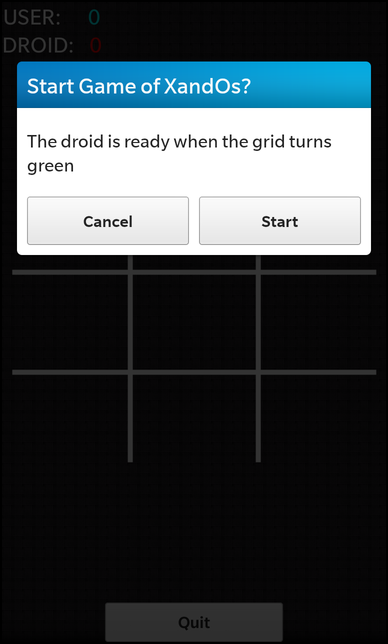
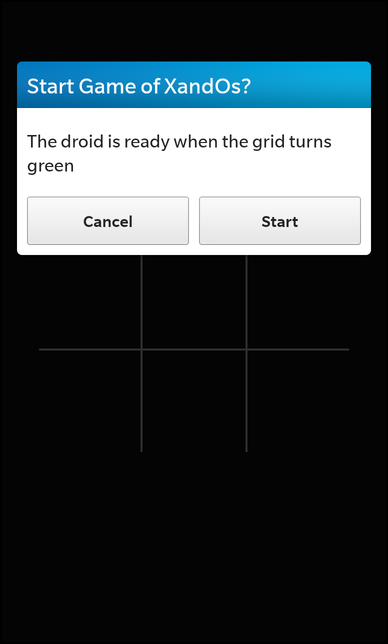
html refresh

diff --git a/xandosdroid-src-xandosdroid-cpp.html b/xandosdroid-src-xandosdroid-cpp.html
@@ -70,6 +70,8 @@
         Q_UNUSED(ok);
     }
     xandosdroid<span class="operator">::</span><span class="operator">~</span>xandosdroid() {
+        m_clientSocket<span class="operator">-</span><span class="operator">&gt;</span>close();
+        m_clientSocket<span class="operator">-</span><span class="operator">&gt;</span>deleteLater();
     }
     <span class="type">void</span> xandosdroid<span class="operator">::</span>onInvoked(<span class="keyword">const</span> bb<span class="operator">::</span>system<span class="operator">::</span>InvokeRequest<span class="operator">&amp;</span> request) {
         <span class="keyword">if</span> (request<span class="operator">.</span>action()<span class="operator">.</span>compare(<span class="string">&quot;bb.action.START&quot;</span>) <span class="operator">=</span><span class="operator">=</span> <span class="number">0</span>) {
@@ -148,6 +150,9 @@
         <a href="http://qt.nokia.com/doc/4.7/qtglobal.html#qWarning">qWarning</a>() <span class="operator">&lt;</span><span class="operator">&lt;</span> <span class="string">&quot;XandOsDroid: connecting to server socket&quot;</span>;
         <span class="keyword">if</span> (<span class="operator">!</span>m_clientSocket<span class="operator">-</span><span class="operator">&gt;</span>isOpen()) {
             m_clientSocket<span class="operator">-</span><span class="operator">&gt;</span>connectToHost(<span class="type"><a href="http://qt.nokia.com/doc/4.7/qhostaddress.html">QHostAddress</a></span><span class="operator">::</span>LocalHost<span class="operator">,</span> m_port);
+            <span class="type">bool</span> ok <span class="operator">=</span> connect(m_clientSocket<span class="operator">,</span> SIGNAL(disconnected())<span class="operator">,</span> <span class="keyword">this</span><span class="operator">,</span> SLOT(disconnected()));
+            Q_ASSERT(ok);
+            Q_UNUSED(ok);
         } <span class="keyword">else</span> {
             connected();
         }
@@ -159,6 +164,11 @@
         m_clientSocket<span class="operator">-</span><span class="operator">&gt;</span>flush();
         select(m_nextMove<span class="operator">,</span> <span class="operator">-</span><span class="number">1</span>);
         m_nextMove <span class="operator">=</span> <span class="operator">-</span><span class="number">1</span>;
+    }
+
+    <span class="type">void</span> xandosdroid<span class="operator">::</span>disconnected() {
+        m_clientSocket<span class="operator">-</span><span class="operator">&gt;</span>close();
+        resetGame();
     }
     <span class="type">int</span> xandosdroid<span class="operator">::</span>nextMove(<span class="type">int</span> player) {
         <span class="type"><a href="http://qt.nokia.com/doc/4.7/qlist.html">QList</a></span><span class="operator">&lt;</span><span class="type">int</span><span class="operator">&gt;</span> moves;
@@ -182,10 +192,14 @@
     }
     <span class="keyword">inline</span> <span class="type">void</span> xandosdroid<span class="operator">::</span>terminateDroid() {
         <a href="http://qt.nokia.com/doc/4.7/qtglobal.html#qDebug">qDebug</a>() <span class="operator">&lt;</span><span class="operator">&lt;</span> <span class="string">&quot;XandOsDroid: terminating droid&quot;</span>;
-        m_clientSocket<span class="operator">-</span><span class="operator">&gt;</span>close();
-        m_clientSocket<span class="operator">-</span><span class="operator">&gt;</span>deleteLater();
-        <span class="keyword">if</span> (<span class="operator">!</span>m_app<span class="operator">-</span><span class="operator">&gt;</span>requestExit()) {
-            <a href="http://qt.nokia.com/doc/4.7/qtglobal.html#qDebug">qDebug</a>() <span class="operator">&lt;</span><span class="operator">&lt;</span> <span class="string">&quot;XandOsDroid: error trying to terminate droid&quot;</span>;
+        resetGame();
+    }
+    <span class="type">void</span> xandosdroid<span class="operator">::</span>resetGame() {
+        <span class="keyword">for</span> (<span class="type">int</span> i <span class="operator">=</span> <span class="number">0</span>; i <span class="operator">&lt;</span> <span class="number">9</span>; i<span class="operator">+</span><span class="operator">+</span>) {
+            m_possibilities<span class="operator">[</span>i<span class="operator">]</span><span class="operator">[</span><span class="number">8</span><span class="operator">]</span> <span class="operator">=</span> <span class="number">0</span>;
+            <span class="keyword">if</span> (i <span class="operator">&lt;</span> <span class="number">8</span>) {
+                m_gameMatrix<span class="operator">[</span>i<span class="operator">]</span> <span class="operator">=</span> <span class="number">0</span>;
+            }
         }
     }</pre>
 </div>

diff --git a/xandos.html b/xandos.html
@@ -53,7 +53,7 @@
 <a name="description"></a>
 <h2>Description</h2>
 <p>The <a href="#xandos">XandOs</a> example demonstrates how to launch a headless service counterpart and communicate with it.</p>
-<p class="centerAlign"><img src="images/xandos-example.png" /></p><p class="centerAlign"><img src="images/xandos-example1.png" /></p><p class="centerAlign"><img src="images/xandos-example2.png" /></p><p class="centerAlign"><img src="images/xandos-example3.png" /></p><p class="centerAlign"><img src="images/xandos-example4.png" /></p><a name="overview"></a>
+<p class="centerAlign"><img src="images/xandos-example.png" /></p><p class="centerAlign"><img src="images/xandos-example1.png" /></p><p class="centerAlign"><img src="images/xandos-example2.png" /></p><p class="centerAlign"><img src="images/xandos-example3.png" /></p><a name="overview"></a>
 <h2>Overview</h2>
 <p>In this sample, we represent the game board using an image and sprites for the game pieces.</p>
 <a name="ui"></a>
@@ -310,19 +310,6 @@
         }
     }</pre>
 <p>The following <tt>Container</tt> 's with their associated images represent the grid cells, with the first <tt>Container</tt> being the first grid row, the second being the second grid row and so on. Each of the ImageView represent one cell in the grid, with the default image being a blank (meaning no selection has been made). When an onTouch event occurs, we verify first that the cell was not marked previously and we change it to the players sprite image.</p>
-<pre class="qml">    <span class="comment">// Button to exit the game at any time</span>
-    <span class="type">Button</span> {
-        <span class="name">bottomPadding</span>: <span class="number">200</span>
-        <span class="name">bottomMargin</span>: <span class="number">200</span>
-        <span class="name">horizontalAlignment</span>: <span class="name">HorizontalAlignment</span>.<span class="name">Center</span>
-        <span class="name">verticalAlignment</span>: <span class="name">VerticalAlignment</span>.<span class="name">Bottom</span>
-        <span class="name">text</span>: <span class="name">qsTr</span>(<span class="string">&quot;Quit&quot;</span>)
-        <span class="name">onClicked</span>: {
-            <span class="name">_xandos</span>.<span class="name">stopDroid</span>()
-            <span class="name">Application</span>.<span class="name">requestExit</span>()
-        }
-    }</pre>
-<p>The &quot;Quit&quot; button allows the user to terminate the droid and exit the application at any time.</p>
 <pre class="qml">    <span class="comment">// System dialog that questions user if to start the game at all</span>
     <span class="type">SystemDialog</span> {
         <span class="name">id</span>: <span class="name">dialog</span>

diff --git a/xandosdroid.html b/xandosdroid.html
@@ -88,6 +88,11 @@
          * to it's UI server socket for grid selection communication.
          */</span>
         <span class="type">void</span> connected();
+
+        <span class="comment">/**
+         * This method is invoked when the socket disconnects.
+         */</span>
+        <span class="type">void</span> disconnected();
     <span class="keyword">private</span>:
         <span class="comment">/**
          * Method which returns the choices available
@@ -111,6 +116,8 @@
          * Method invoked when the droid termination is requested.
          */</span>;
         <span class="keyword">inline</span> <span class="type">void</span> terminateDroid();
+
+        <span class="type">void</span> resetGame();
 
         <span class="comment">// The grid matrix containing the winning possibilities for each cell</span>
         <span class="keyword">static</span> <span class="type">int</span> m_possibilities<span class="operator">[</span><span class="number">9</span><span class="operator">]</span><span class="operator">[</span><span class="number">9</span><span class="operator">]</span>;
@@ -238,6 +245,9 @@
         <a href="http://qt.nokia.com/doc/4.7/qtglobal.html#qWarning">qWarning</a>() <span class="operator">&lt;</span><span class="operator">&lt;</span> <span class="string">&quot;XandOsDroid: connecting to server socket&quot;</span>;
         <span class="keyword">if</span> (<span class="operator">!</span>m_clientSocket<span class="operator">-</span><span class="operator">&gt;</span>isOpen()) {
             m_clientSocket<span class="operator">-</span><span class="operator">&gt;</span>connectToHost(<span class="type"><a href="http://qt.nokia.com/doc/4.7/qhostaddress.html">QHostAddress</a></span><span class="operator">::</span>LocalHost<span class="operator">,</span> m_port);
+            <span class="type">bool</span> ok <span class="operator">=</span> connect(m_clientSocket<span class="operator">,</span> SIGNAL(disconnected())<span class="operator">,</span> <span class="keyword">this</span><span class="operator">,</span> SLOT(disconnected()));
+            Q_ASSERT(ok);
+            Q_UNUSED(ok);
         } <span class="keyword">else</span> {
             connected();
         }

diff --git a/xandos-assets-main-qml.html b/xandos-assets-main-qml.html
@@ -279,18 +279,6 @@
                     }
                 }
             }
-            <span class="comment">// Button to exit the game at any time</span>
-            <span class="type">Button</span> {
-                <span class="name">bottomPadding</span>: <span class="number">200</span>
-                <span class="name">bottomMargin</span>: <span class="number">200</span>
-                <span class="name">horizontalAlignment</span>: <span class="name">HorizontalAlignment</span>.<span class="name">Center</span>
-                <span class="name">verticalAlignment</span>: <span class="name">VerticalAlignment</span>.<span class="name">Bottom</span>
-                <span class="name">text</span>: <span class="name">qsTr</span>(<span class="string">&quot;Quit&quot;</span>)
-                <span class="name">onClicked</span>: {
-                    <span class="name">_xandos</span>.<span class="name">stopDroid</span>()
-                    <span class="name">Application</span>.<span class="name">requestExit</span>()
-                }
-            }
         }
         <span class="name">attachedObjects</span>: [
             <span class="comment">// System dialog that questions user if to start the game at all</span>

diff --git a/xandosdroid-src-xandosdroid-hpp.html b/xandosdroid-src-xandosdroid-hpp.html
@@ -94,6 +94,11 @@
          * to it's UI server socket for grid selection communication.
          */</span>
         <span class="type">void</span> connected();
+
+        <span class="comment">/**
+         * This method is invoked when the socket disconnects.
+         */</span>
+        <span class="type">void</span> disconnected();
     <span class="keyword">private</span>:
         <span class="comment">/**
          * Method which returns the choices available
@@ -117,6 +122,8 @@
          * Method invoked when the droid termination is requested.
          */</span>;
         <span class="keyword">inline</span> <span class="type">void</span> terminateDroid();
+
+        <span class="type">void</span> resetGame();
 
         <span class="comment">// The grid matrix containing the winning possibilities for each cell</span>
         <span class="keyword">static</span> <span class="type">int</span> m_possibilities<span class="operator">[</span><span class="number">9</span><span class="operator">]</span><span class="operator">[</span><span class="number">9</span><span class="operator">]</span>;
